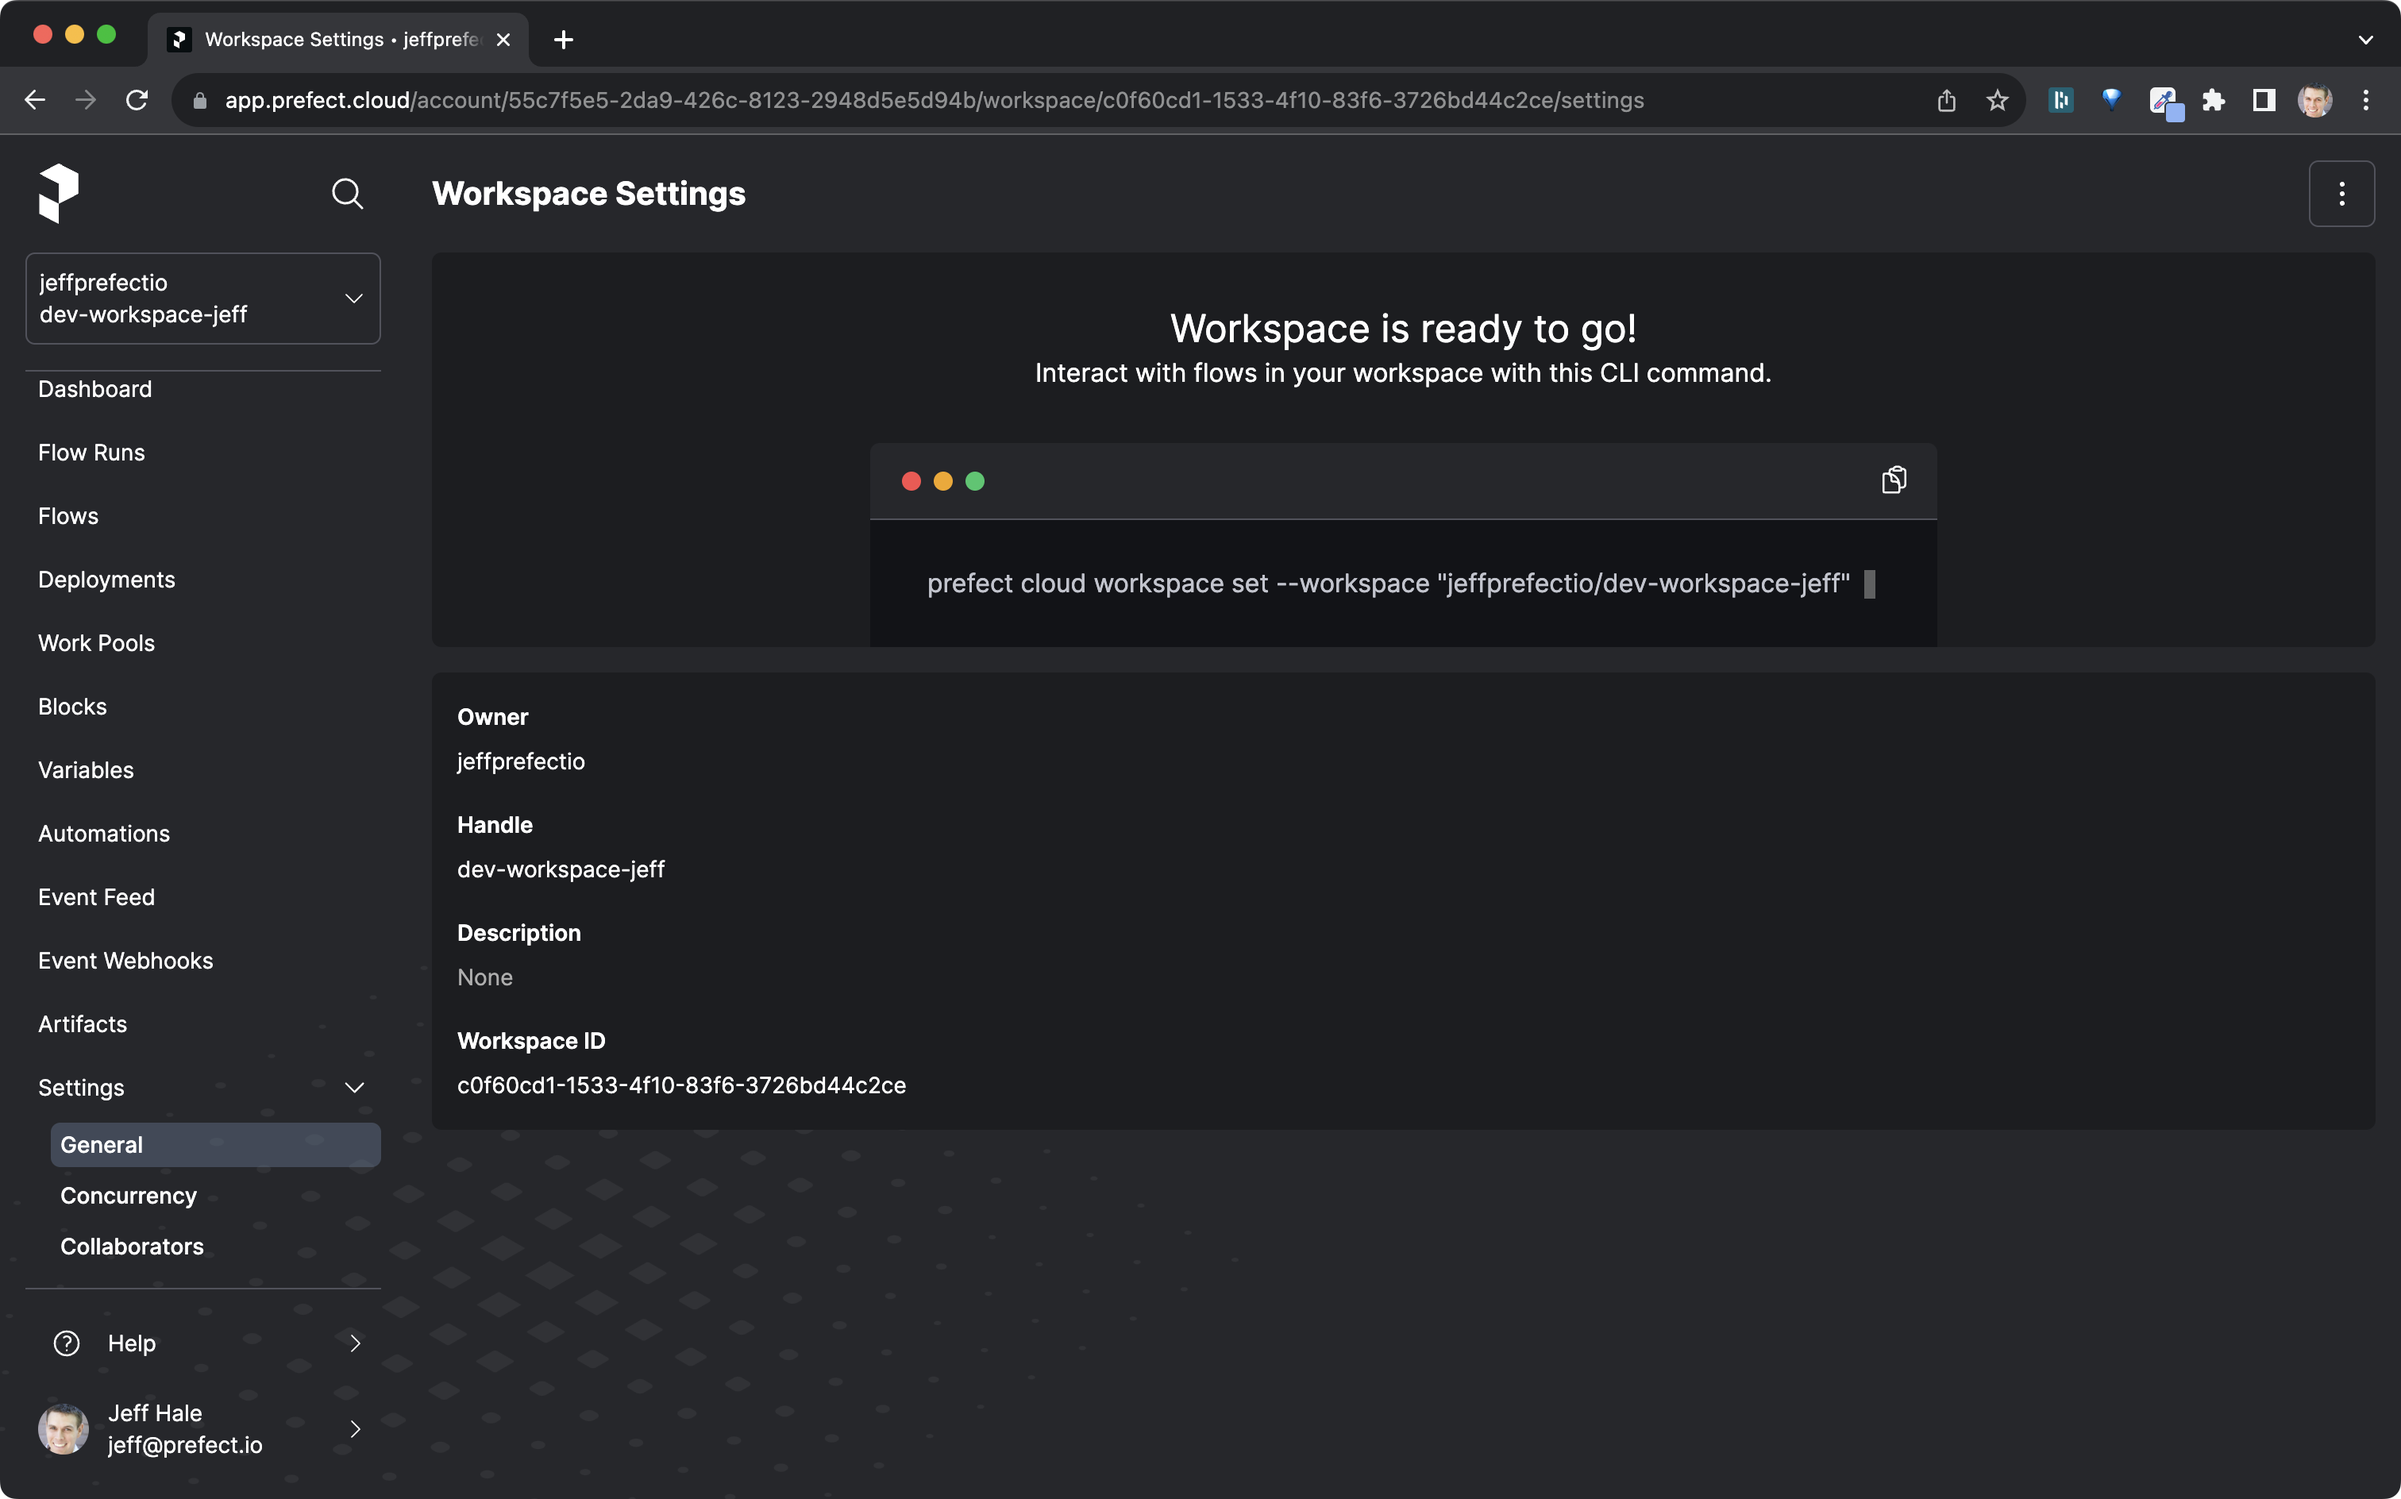
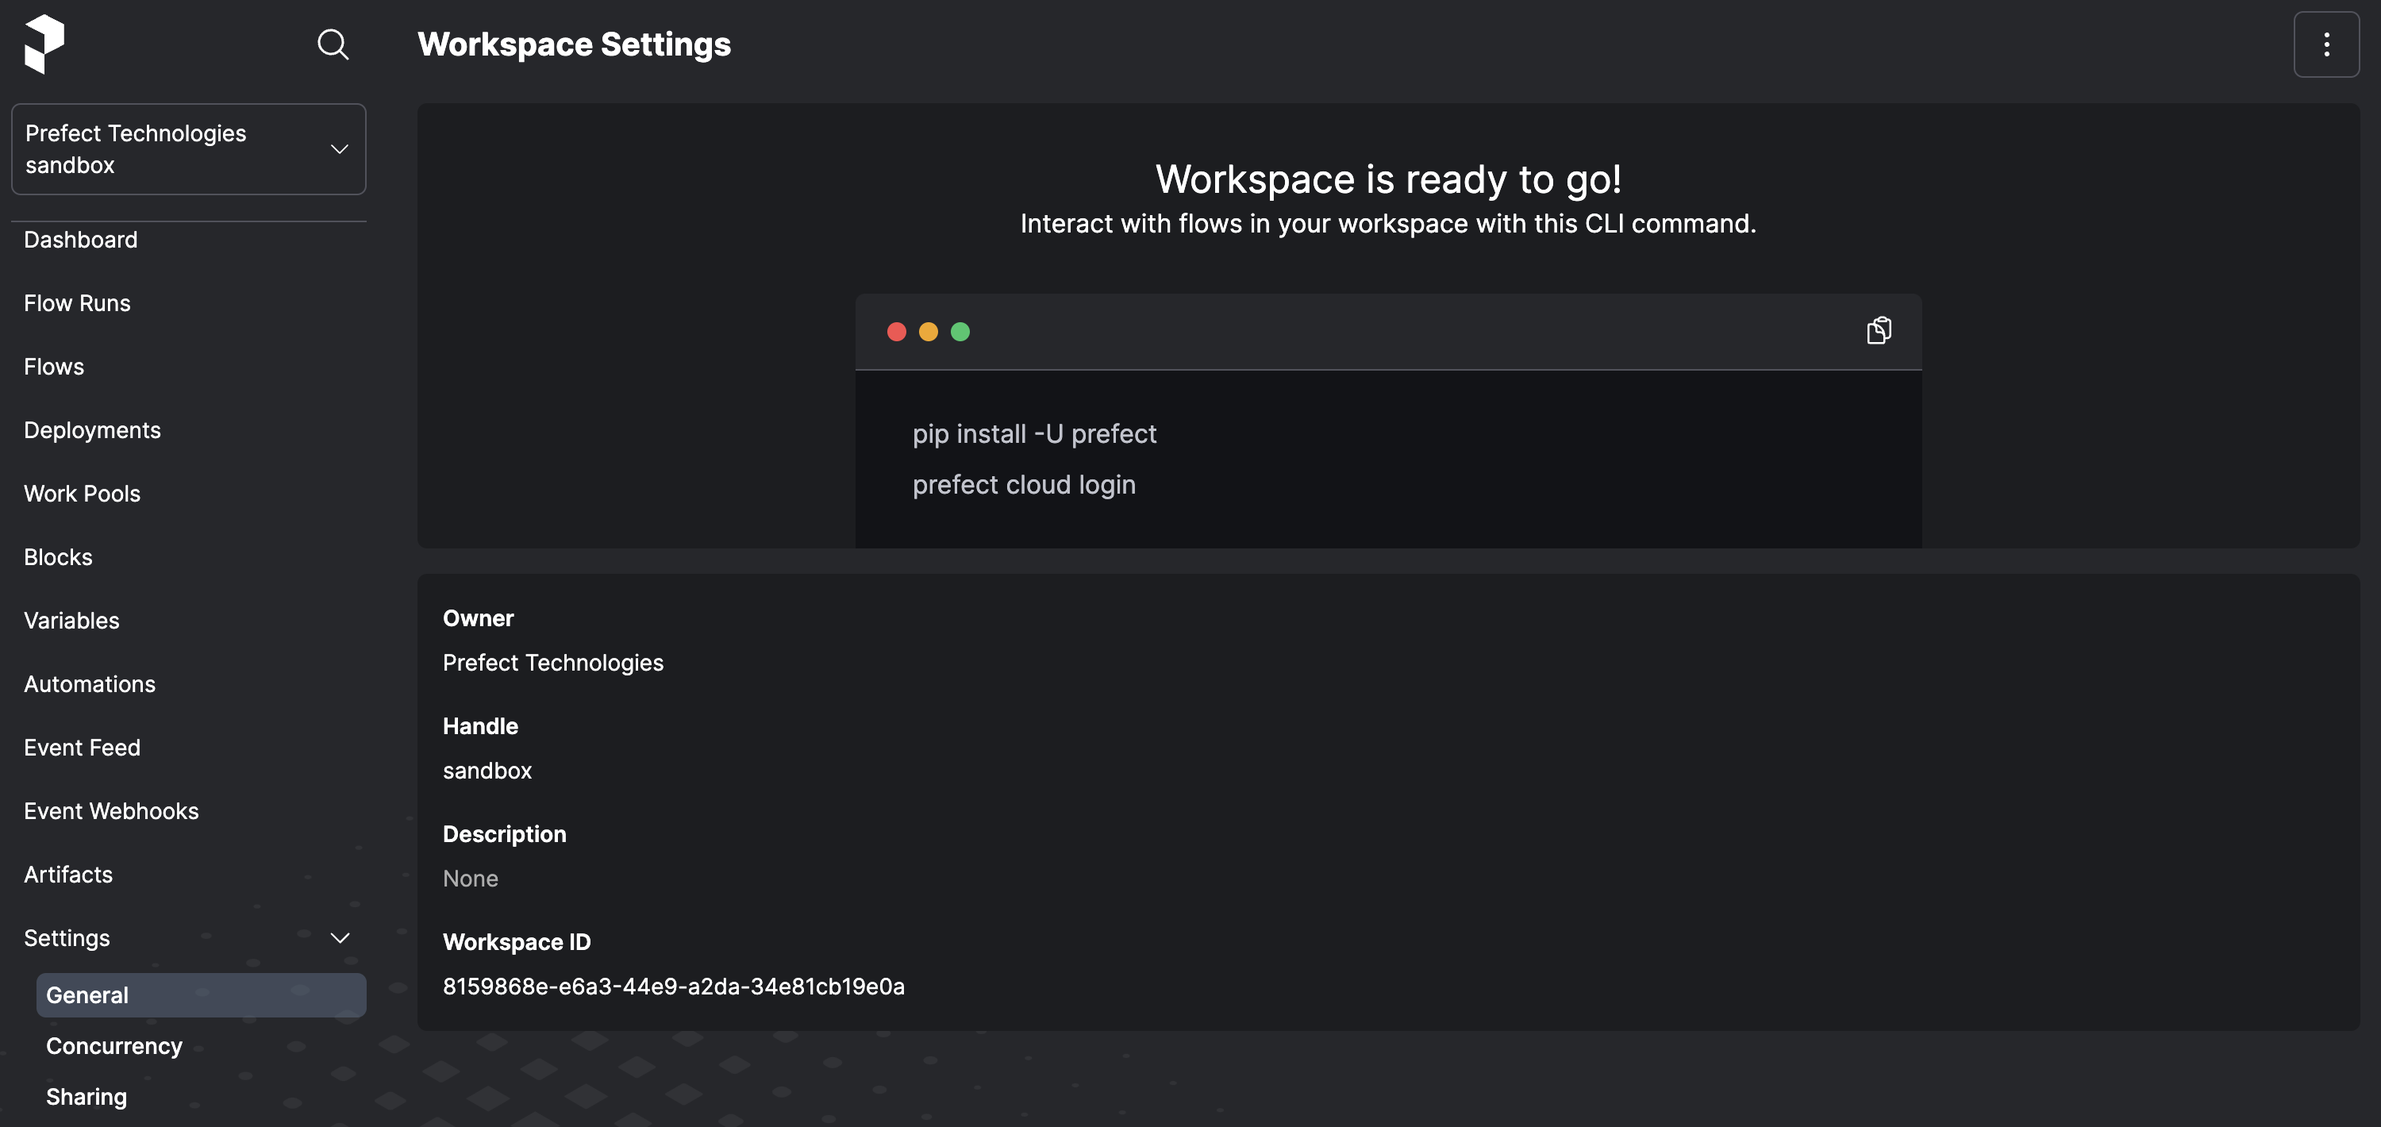
update content

diff --git a/docs/cloud/workspaces.md b/docs/cloud/workspaces.md
@@ -61,47 +61,34 @@ See [Pricing](https://www.prefect.io/pricing/) if you need additional workspaces
 
 ## Workspace settings
 
-Within a workspace, select **Workspace Settings** to view or edit workspace details.  
+Within a workspace, select **Settings -> General** to view or edit workspace details.  
 
 ![Managing a workspace in the Prefect Cloud UI.](/img/ui/workspace-settings.png)
 
-The options menu enables you to edit workspace details or delete the workspace.
+On this page you can edit workspace details or delete the workspace.
 
 !!! warning "Deleting a workspace"
     Deleting a workspace deletes all deployments, flow run history, work pools, and notifications configured in workspace.
 
-## Account membership
-
-You can send an email invitation to invite a user to become a member of your account.
-
-In your account select **Members**.
-Any members will be listed with their handle, organizational role, and most recent login date.
-On the **Invitiations** tab you'll see any previously invited individuals and information about the invitation status.
-
-![Managing members in a workspace in the Prefect Cloud UI.](/img/ui/workspace-collaborators.png)
-
-To invite a user to become an account member, select the **+** icon.
-You'll be prompted for the email address of the person you'd like to invite.
-Add the email address, then select **Send** to initiate the invitation.
-
-If the user does not already have a Prefect Cloud account, they will be able to create one when accepting the invitation.
-
-To delete a member from an account, select **Remove** from the menu on the left side of the user's information on this page.
-
 ## Workspace access <span class="badge pro"></span> <span class="badge enterprise"></span>
 
-Within a Prefect Cloud account, Admins can invite other users and provision [service accounts](/ui/service-accounts/) to a workspace.
-In addition to giving the user access to the workspace, the Admin assigns a [workspace role](/ui/roles/) to the user.
+Within a Prefect Cloud account, Workspace Owners can invite other people to be members and provision [service accounts](/ui/service-accounts/) to a workspace.
+In addition to giving the user access to the workspace, a Workspace Owner assigns a [workspace role](/ui/roles/) to the user.
 The role specifies the scope of permissions for the user within the workspace.
 
-As an Admin in workspace, select **Workspaces** to manage individuals and service accounts for the workspace.
-If you've previously invited other individuals and service accounts, you'll see them listed.
+As a Workspace Owner, select **Workspaces -> Sharing** to manage members and service accounts for the workspace.
+
+If you've previously invited individuals to your account or provisioned service accounts, you'll see them listed here.
 
 ![Managing sharing in a workspace in the Prefect Cloud UI.](/img/ui/workspace-sharing.png)
 
-To invite someone a workspace, select the Members **+** icon. You can select from a list of existing account members.
+To more easily manage users, you can use a team to group users with similar permissions. TK
 
-Select a Workspace Role for the user.
+If your plan has custom RBAC you can create custom roles to assign to users or teams. TK
+
+To invite someone to an account, select the Members **+** icon. You can select from a list of existing account members.
+
+Select a Role for the user.
 This will be the initial role for the user within the workspace. A workspace Owner can change this role at any time.
 
 Select **Send** to initiate the invitation.
@@ -111,7 +98,7 @@ You can select from a list of existing service accounts configured for the organ
 Select a Workspace Role for the service account. This will be the initial role for the service account within the workspace.
 A workspace Owner can change this role at any time. Select **Share** to finalize adding the service account.
 
-To delete a workspace collaborator or service account, select **Remove** from the menu on the right side of the user or service account information on this page.
+To remove a workspace member or service account, select **Remove** from the menu on the right side of the user or service account information on this page.
 
 ## Workspace transfer
 

diff --git a/docs/cloud/pro-enterprise.md b/docs/cloud/pro-enterprise.md
@@ -37,6 +37,26 @@ When you select an account, the **Account** page provides an overview of that ac
 
 ## Account members
 
+TK work in next section copied from adjusted other section
+
+## Account membership
+
+You can send an email invitation to invite a user to become a member of your account.
+
+In your account select **Members**.
+Any members will be listed with their handle, organizational role, and most recent login date.
+On the **Invitations** tab you'll see any previously invited individuals and information about the invitation status.
+
+![Managing members in a workspace in the Prefect Cloud UI.](/img/ui/workspace-collaborators.png)
+
+To invite someone to become an account member, select the **+** icon.
+You'll be prompted for the email address of the person you'd like to invite.
+Add the email address, then select **Send** to initiate the invitation.
+
+If the user does not already have a Prefect Cloud account, they will be able to create one when accepting the invitation.
+
+To delete a member from an account, select **Remove** from the menu on the left side of the user's information on this page.
+
 You can control granular access to workspaces by setting default access for all account members, inviting specific members to collaborate in a workspace, or adding service account permissions.
 
 To invite new members to an account in Prefect Cloud, select the **+** icon.

diff --git a/docs/cloud/users/index.md b/docs/cloud/users/index.md
@@ -7,11 +7,14 @@ search:
   boost: 2
 ---
 
-# Users <span class="badge cloud"></span>
+# Accounts <span class="badge cloud"></span>
 
-*Users* of Prefect Cloud are accounts for individuals created by signing up at [app.prefect.cloud](https://app.prefect.cloud). Users can also be added as a Member of other [Organizations](/cloud/organizations/) and [Workspaces](/cloud/workspaces/).
+Sign up for a Prefect Cloud account at [app.prefect.cloud](https://app.prefect.cloud).
 
-## User Settings
+An individual can be invited to become a Member of other [Accounts](/cloud/pro-enterprise/).
+
+## User settings TK -still use term user, changed a bit on this page
+
 Users can access their account in the [profile menu](https://app.prefect.cloud/my/profile), including:
 
 - Profile: Viewing and editing basic information, such as name.
@@ -21,5 +24,8 @@ Users can access their account in the [profile menu](https://app.prefect.cloud/m
 
 ## Roles
 
-Users can be granted [roles](/cloud/users/roles/) with their respective permission sets at the *Account* and *Workspace* levels. 
+Users can be granted [roles](/cloud/users/roles/) with their respective permission sets at the *Account* and *Workspace* levels.
 
+## Teams
+
+Users can be added to [Teams](/cloud/users/teams/) to simplify access control governance.
